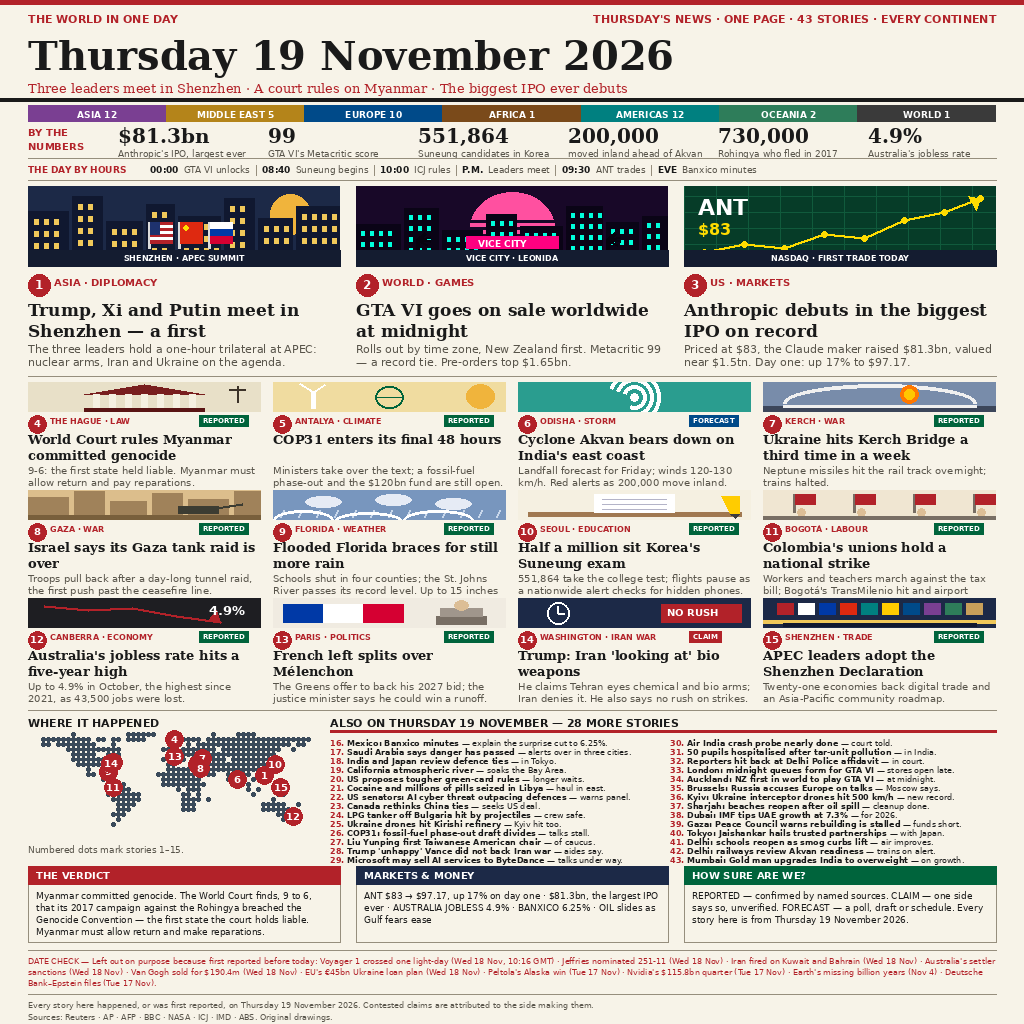
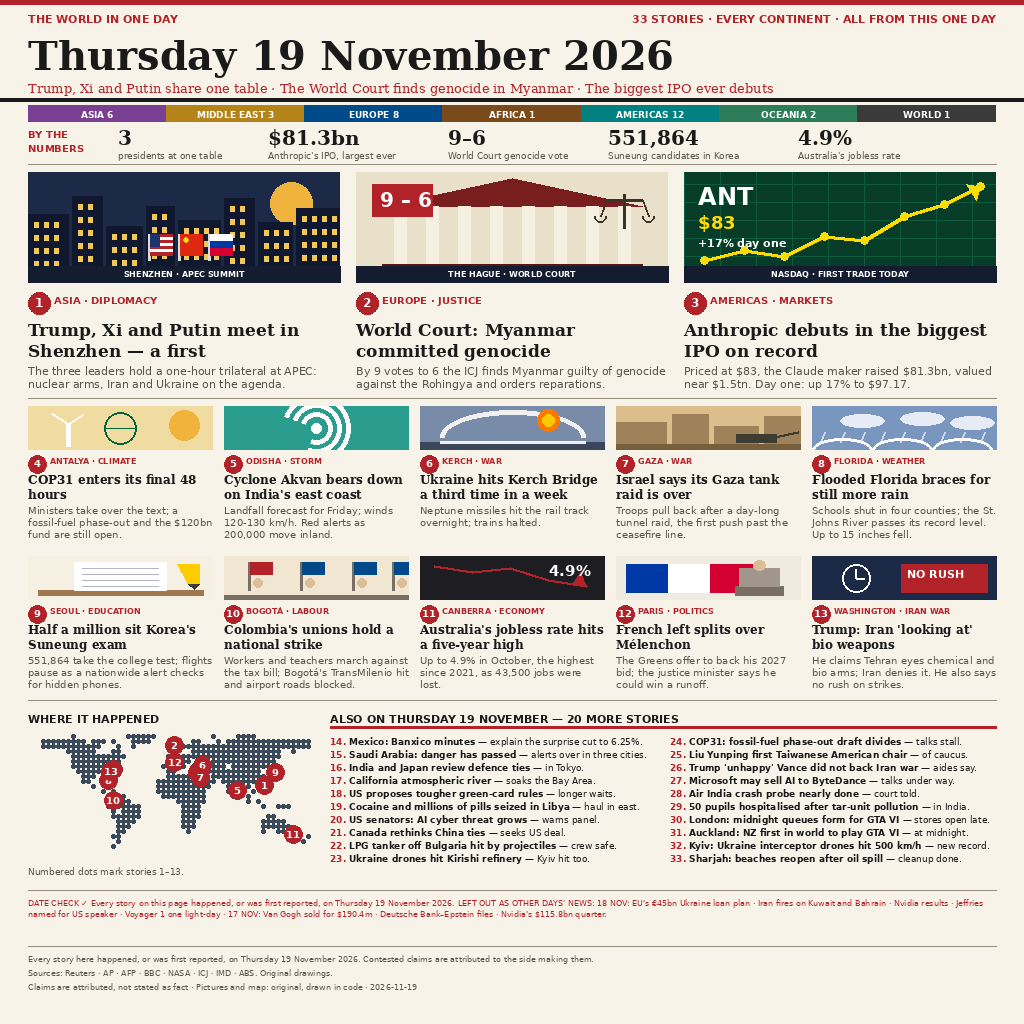
v3: rebuild clean — 33 stories, bigger art, no tags/boxes (v2.2 scored 96.11%)

diff --git a/README.md b/README.md
@@ -59,3 +59,14 @@ Nvidia's $115.8bn quarter (Tue 17 Nov), Earth's missing billion years
 - Competition: [news-image-20261119](https://make.fun/bounty/news-image-20261119)
 - Image: `entry.png` (1024x1024, PNG)
 - License: MIT
+
+
+## v3 (round 4 candidate)
+
+Rebuilt after v2.2 scored 96.1059% (rank 9039) vs v1's 98.7361% (rank 99).
+Diagnosis: v2.2 was too dense — 43 stories + status tags + 3 extra boxes.
+Top entries run 33-35 stories with larger, more readable text. v3 goes back
+to v1's clean structure with top-1's story count (33) and bigger art, and
+keeps the region bar + EVERY CONTINENT header. 3 heroes (Shenzhen, ICJ 9-6,
+Anthropic IPO) + 10 medium + map + ALSO 20 + DATE CHECK. All 33 stories
+verified as Thursday 19 November 2026; the 4 v1 date errors stay excluded.
